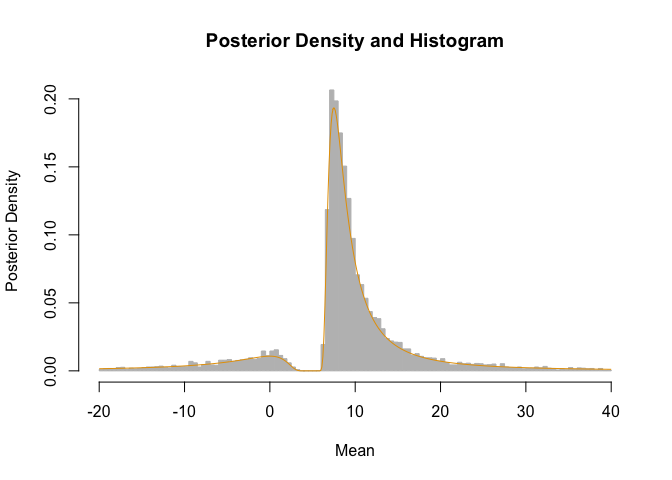
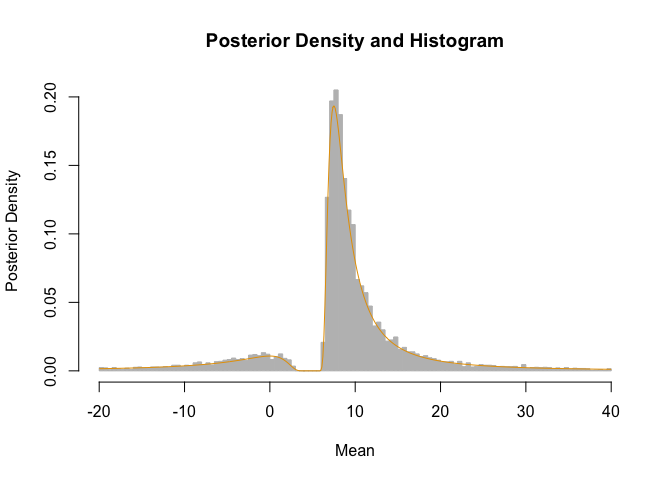
version bump, fix extrachecks, update citation

diff --git a/README.md b/README.md
@@ -90,4 +90,5 @@ browseVignettes("nisone")
 # References
 
 - Gerard, D. (2026). Constructing and extending *n* = 1 Bayesian
-  confidence intervals of the normal mean. *In preparation*.
+  confidence intervals for location parameters in location-scale
+  families. *In preparation*.
